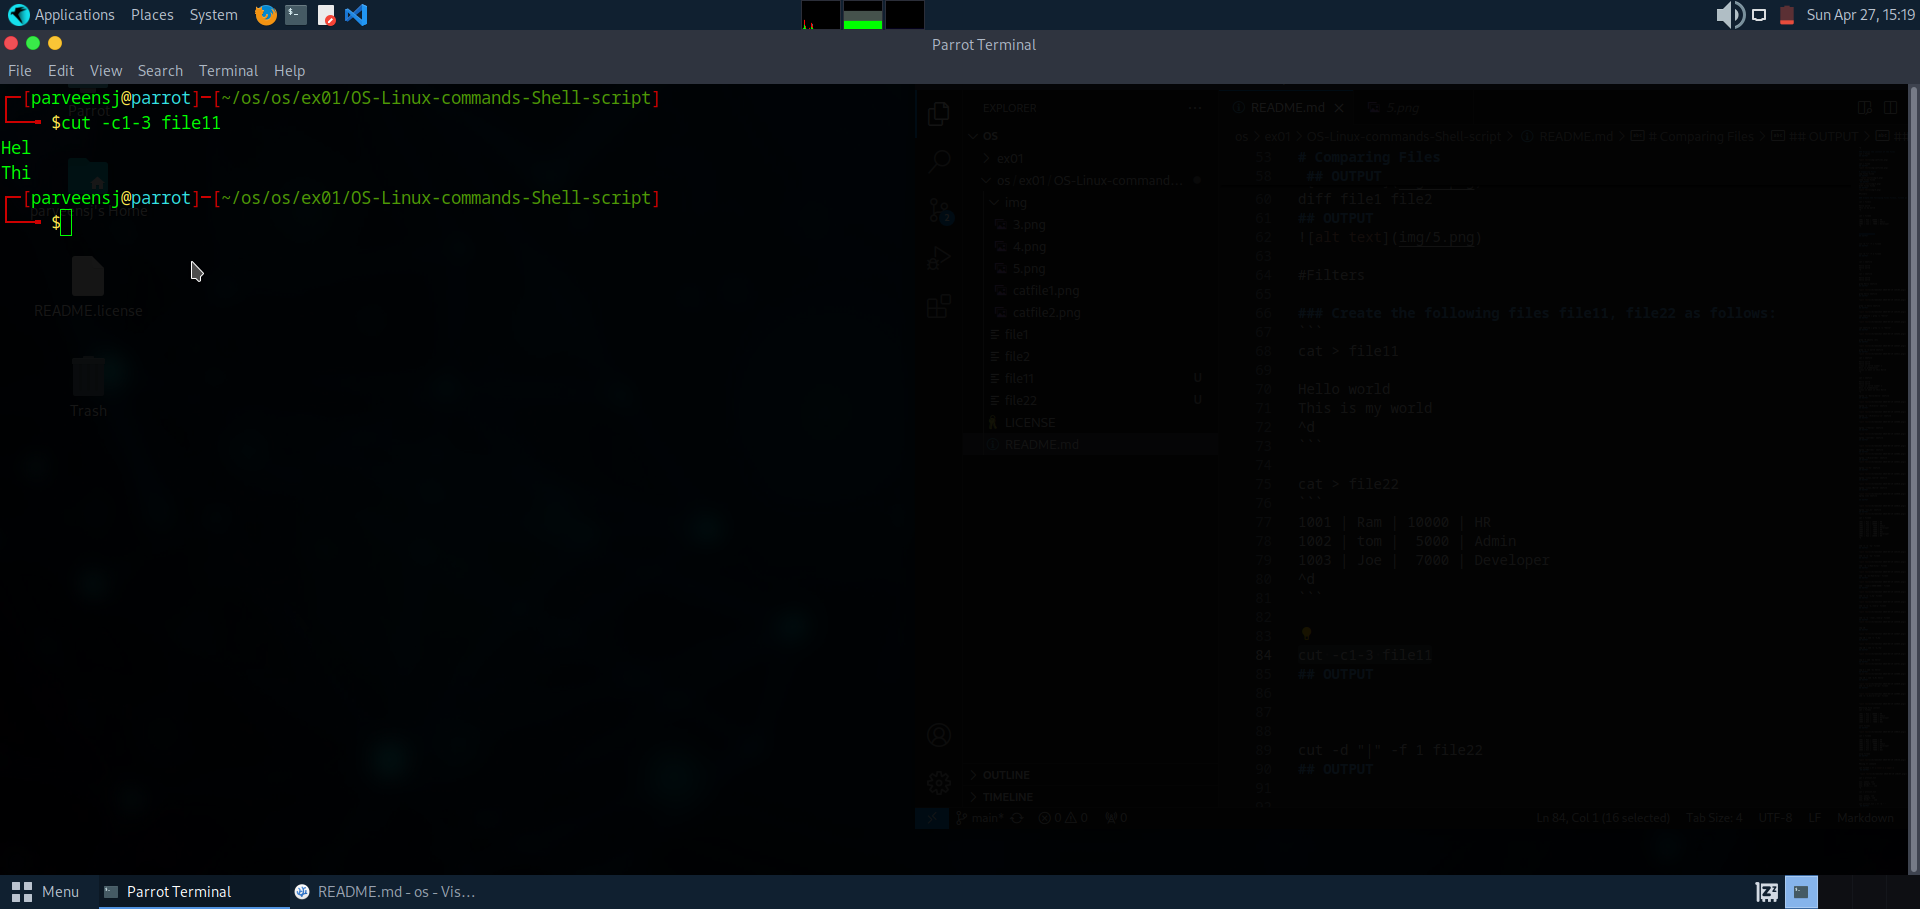
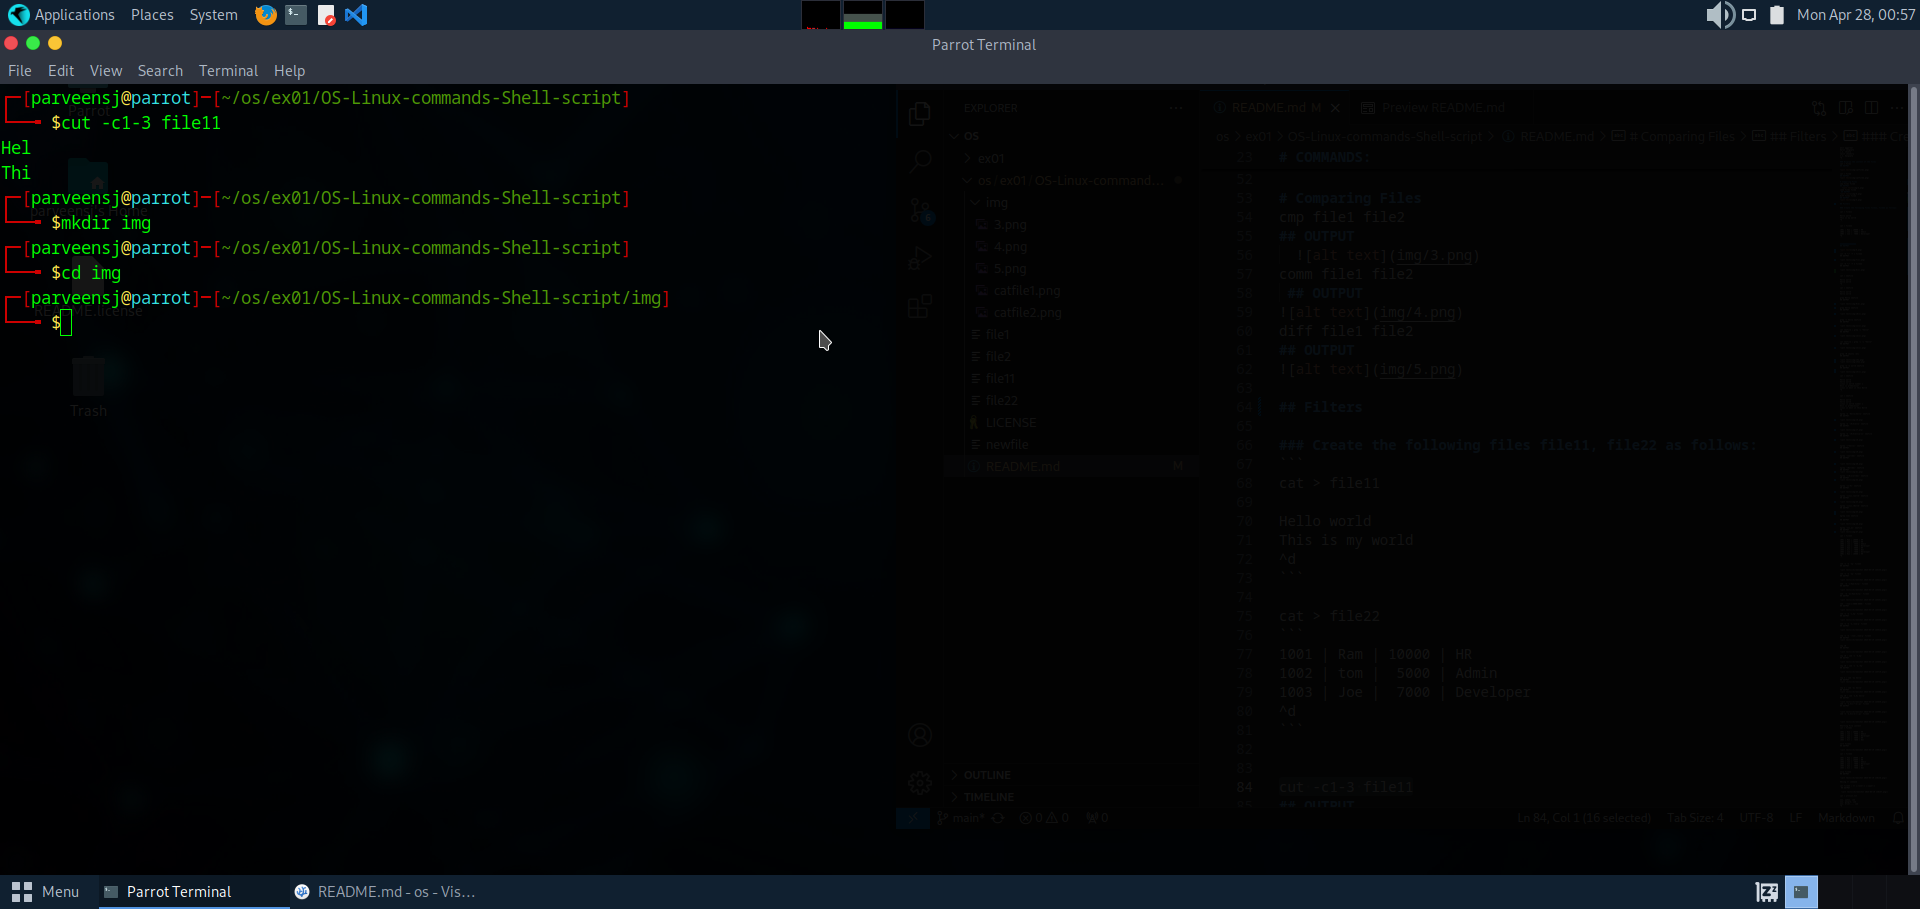
catfile

diff --git a/README.md b/README.md
@@ -61,7 +61,7 @@ diff file1 file2
 ## OUTPUT
 ![alt text](img/5.png)
 
-#Filters
+## Filters
 
 ### Create the following files file11, file22 as follows:
 ```
@@ -84,15 +84,17 @@ cat > file22
 cut -c1-3 file11
 ## OUTPUT
 
-
-
+![alt text](img/6.png)
+```
 cut -d "|" -f 1 file22
 ## OUTPUT
 
-
+![alt text](img/7(1).png)
 
 cut -d "|" -f 2 file22
 ## OUTPUT
+
+![alt text](img/8(1).png)
 
 ```
 cat < newfile 
@@ -109,39 +111,41 @@ hello world
 grep Hello newfile 
 ## OUTPUT
 
-![alt text](<Screenshot 2025-04-19 124105.png>)
+![alt text](img/9(2).png)
 
-grep hello newfile 
+grep hello newfile
 ## OUTPUT
 
-![alt text](<Screenshot 2025-04-19 124123.png>)
+![alt text](img/10(1).png)
 
 
 grep -v hello newfile 
 ## OUTPUT
 
-![alt text](<Screenshot 2025-04-19 124154.png>)
+![alt text](img/11(1).png)
 
 cat newfile | grep -i "hello"
 ## OUTPUT
 
-![alt text](<Screenshot 2025-04-19 124225.png>)
+![alt text](img/12(1).png)
 
 
 cat newfile | grep -i -c "hello"
 ## OUTPUT
 
-![alt text](<Screenshot 2025-04-19 124252.png>)
+![alt text](img/13(1).png)
 
 
 grep -R ubuntu /etc
 ## OUTPUT
 
-![alt text](<Screenshot 2025-04-19 124327.png>)
+![alt text](img/14o.png)
+![alt text](img/14oo.png)
 
 grep -w -n world newfile   
 ## OUTPUT
-![alt text](<Screenshot 2025-04-19 124411.png>)
+
+![alt text](img/15(1).png)
 
 cat < newfile 
 ```
@@ -165,63 +169,63 @@ Linux is best in this World
 egrep -w 'Hello|hello' newfile 
 ## OUTPUT
 
-![alt text](<Screenshot 2025-04-19 124528.png>)
+![alt text](img/16.png)
 
 egrep -w '(H|h)ello' newfile 
 ## OUTPUT
 
-![alt text](<Screenshot 2025-04-19 124548.png>)
+![alt text](img/17.png)
 
 egrep -w '(H|h)ell[a-z]' newfile 
 ## OUTPUT
 
-![alt text](<Screenshot 2025-04-19 124606.png>)
+![alt text](img/18.png)
 
 
 egrep '(^hello)' newfile 
 ## OUTPUT
 
-![alt text](<Screenshot 2025-04-19 124625.png>)
+![alt text](img/19.png)
 
 egrep '(world$)' newfile 
 ## OUTPUT
 
 
-![alt text](<Screenshot 2025-04-19 124737.png>)
+![alt text](img/20.png)
 
 egrep '(World$)' newfile 
 ## OUTPUT
-![alt text](<Screenshot 2025-04-19 124802.png>)
+![alt text](img/21.png)
 
 egrep '((W|w)orld$)' newfile 
 ## OUTPUT
-![alt text](<Screenshot 2025-04-19 124831.png>)
+![alt text](img/22.png)
 
 
 egrep '[1-9]' newfile 
 ## OUTPUT
 
-![alt text](<Screenshot 2025-04-19 124851.png>)
+![alt text](img/23.png)
 
 egrep 'Linux.*world' newfile 
 ## OUTPUT
 
-![alt text](<Screenshot 2025-04-19 124916.png>)
+![alt text](img/24.png)
 
 egrep 'Linux.*World' newfile 
 ## OUTPUT
 
-![alt text](<Screenshot 2025-04-19 124950.png>)
+![alt text](img/25.png)
+
 egrep l{2} newfile
 
 ## OUTPUT
 
-
-![alt text](<Screenshot 2025-04-19 125014.png>)
+![alt text](img/26.png)
 
 egrep 's{1,2}' newfile
 ## OUTPUT 
-![alt text](<Screenshot 2025-04-19 125032.png>)
+![alt text](img/27.png)
 
 cat > file23
 ```
